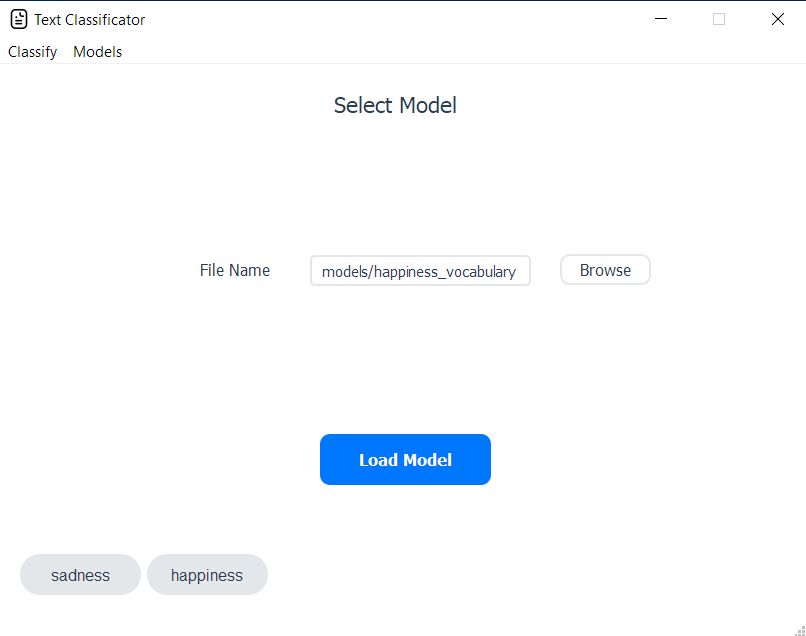
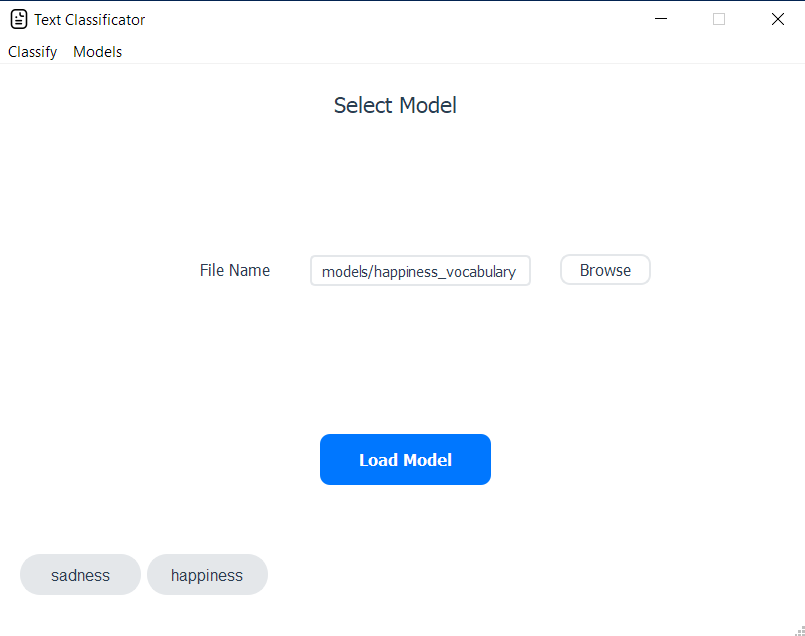
Added samples

diff --git a/README.md b/README.md
@@ -59,7 +59,10 @@ Natural Language Processing in Python
 
 ### Samples
 
-<img src="Sample1.png" width=100> <img src="Sample2.png" width=100> <img src="Sample3.png" width=100>
+<img src="Sample1.png" width=500 style="border: 1px solid #f6f8fa">
+<img src="Sample2.png" width=500 style="border: 1px solid #f6f8fa">
+<img src="Sample3.png" width=500 style="border: 1px solid #f6f8fa">
+
 ## Authors
 
  - Francesco Mecatti - I.T.I.S Enrico Fermi - Italy, Modena
